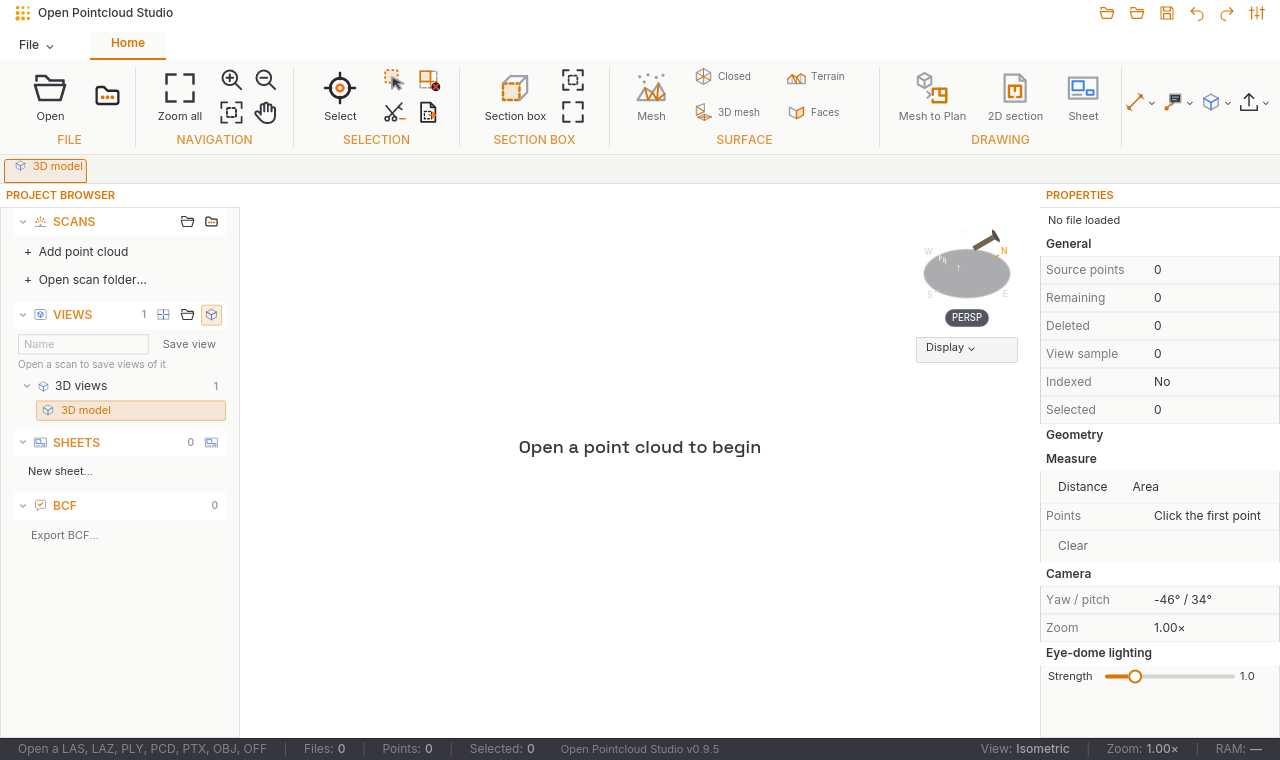
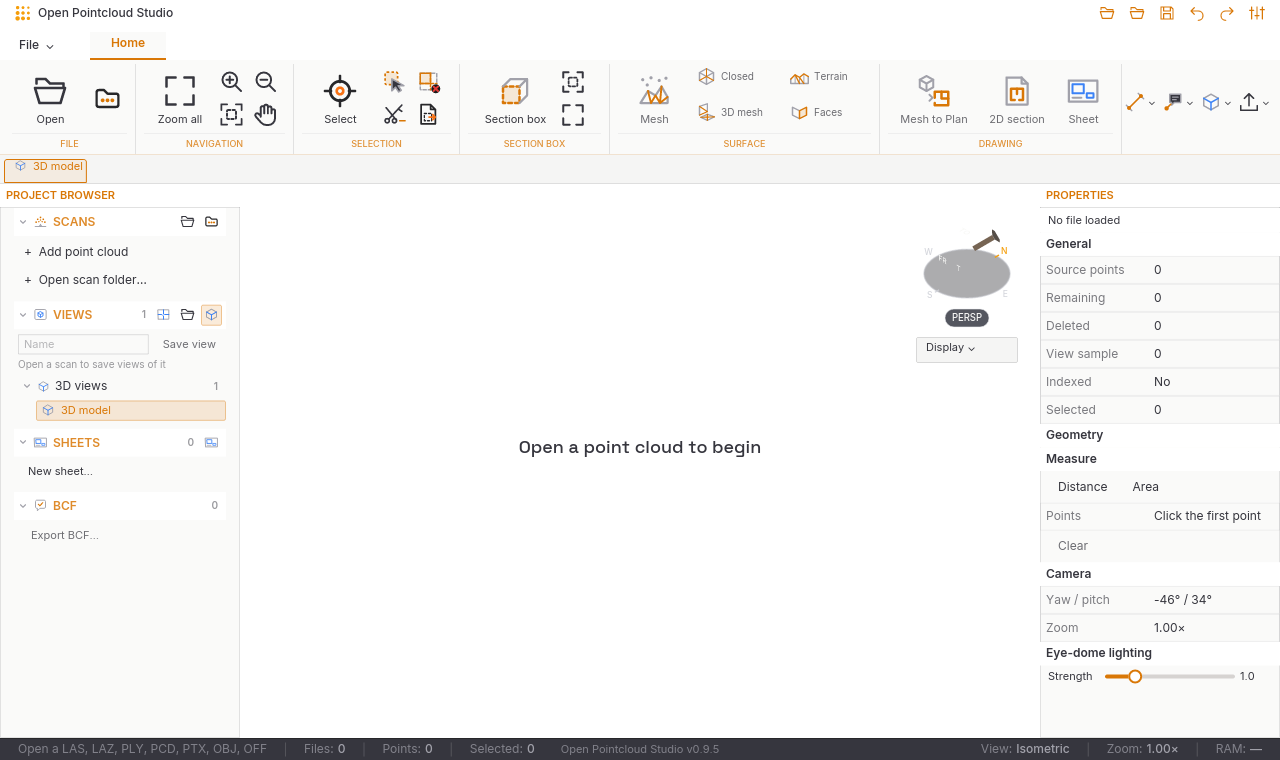
Use shared Rust ribbon group geometry in Pointcloud

diff --git a/native/ui/src/shell.rs b/native/ui/src/shell.rs
@@ -48,28 +48,36 @@ pub fn shell<'a, M: Clone + 'a>(state: &'a ShellState, slots: Slots<'a,M>) -> El
         tabs = tabs.push(button(text(tab.label.clone()).font(fonts::MEDIUM).size(13)).padding([4,16]).on_press(Message::Ui(UiEvent::Tab(tab.id.clone()))).style(move |_,s| widgets::ribbon_tab_style(theme,selected,s)));
     }
     let tabs = container(horizontal(tabs)).height(metrics::TABS).width(Fill);
-    let mut groups = Row::new().spacing(8);
+    let mut groups = Row::new().spacing(0);
     if let Some(active) = active {
         for group in &active.groups {
-            let mut commands = Row::new().spacing(4);
+            let mut commands = Row::new().spacing(1);
+            let mut tools_width = 0.0_f32;
             for command in &group.commands {
                 let selected = command.selected;
                 let color = if !command.enabled {t.text_faint} else if selected {t.accent} else {t.text};
                 let label = command.label.clone();
+                let control_width = (label.chars().count() as f32 * 7.0 + 20.0).clamp(66.0, 160.0);
+                tools_width += control_width;
                 let hint = format!("{}{}", label, command.shortcut.as_ref().map(|s|format!(" ({s})")).unwrap_or_default());
                 let control = button(column![command.icon.view(24,color),text(label).font(fonts::BODY).size(12)].spacing(6).align_x(iced::Alignment::Center))
-                    .padding([3,10]).height(52).on_press_maybe(command.enabled.then(|| Message::Command(command.message.clone())))
+                    .padding([3,10]).width(control_width).height(52).on_press_maybe(command.enabled.then(|| Message::Command(command.message.clone())))
                     .style(move |_,s| widgets::ribbon_button_style(theme,selected,s));
                 commands=commands.push(tooltip(control,text(hint).size(12),tooltip::Position::Bottom));
             }
-            groups=groups.push(container(column![commands,text(group.label.clone()).font(fonts::MEDIUM).size(11).color(t.ribbon_group_label)].spacing(4).align_x(iced::Alignment::Center)).padding([2,8]).style(move |_| container::Style { border:iced::Border {color:t.ribbon_group_separator,width:1.0,radius:0.0.into()},..Default::default() }));
+            tools_width += group.commands.len().saturating_sub(1) as f32;
+            let caption_width = (group.label.chars().count() as f32 * 6.0 + 8.0).max(50.0);
+            let group_width = tools_width.max(caption_width) + 17.0;
+            groups=groups.push(widgets::ribbon_group(theme, group.label.clone(), commands.into(), group_width));
         }
     }
     let ribbon = container(
         scrollable(groups)
-            .direction(scrollable::Direction::Horizontal(scrollable::Scrollbar::new()))
+            .direction(scrollable::Direction::Horizontal(
+                scrollable::Scrollbar::new().width(3).scroller_width(3).margin(0),
+            ))
             .height(Fill),
-    ).height(metrics::RIBBON).padding([4,8]);
+    ).height(metrics::RIBBON).padding(Padding { top: 0.0, right: 8.0, bottom: 0.0, left: 2.0 });
     let mut documents = Row::new().spacing(1).align_y(iced::Alignment::End);
     for doc in slots.documents {
         let selected=slots.active_document.as_ref() == Some(&doc.id);

diff --git a/native/ui/src/widgets.rs b/native/ui/src/widgets.rs
@@ -10,7 +10,7 @@ use iced::{
         button, checkbox, column, container, pick_list, progress_bar, row, scrollable, slider,
         text, text_input, tooltip,
     },
-    Background, Border, Element, Fill,
+    Background, Border, Element, Fill, Length, Padding,
 };
 
 pub fn slider_style(theme: Theme, status: slider::Status) -> slider::Style {
@@ -411,6 +411,53 @@ pub fn ribbon_tab_style(theme: Theme, active: bool, status: button::Status) -> b
         text_color: if active || hovered { t.accent } else { t.text },
         ..Default::default()
     }
+}
+
+/// Tauri Style Book ribbon group: 94 px including the 4 px top inset,
+/// 8 px sides, a ruled caption and a right separator. `width` is the
+/// measured total group width, including both insets and the separator.
+pub fn ribbon_group<'a, M: 'a>(
+    theme: Theme,
+    label: impl Into<String>,
+    tools: Element<'a, M>,
+    width: f32,
+) -> Element<'a, M> {
+    let t = theme.tokens();
+    let width = width.max(50.0);
+    let body = container(tools)
+        .width(Fill)
+        .height(69)
+        .align_x(iced::Alignment::Center)
+        .align_y(iced::Alignment::Center);
+    let rule = container(iced::widget::Space::new(Fill, 1))
+        .width(Fill)
+        .style(move |_| container::Style::default().background(t.border_subtle));
+    let caption = container(
+        text(label.into().to_uppercase())
+            .font(fonts::MEDIUM)
+            .size(9)
+            .color(t.ribbon_group_label),
+    )
+    .width(Fill)
+    .height(20)
+    .center_x(Fill)
+    .align_y(iced::Alignment::Center);
+    let content = container(column![body, rule, caption])
+        .width(Length::Fixed(width - 1.0))
+        .height(metrics::RIBBON)
+        .padding(Padding {
+            top: 4.0,
+            right: 8.0,
+            bottom: 0.0,
+            left: 8.0,
+        });
+    let separator = container(iced::widget::Space::new(1, 90))
+        .style(move |_| container::Style::default().background(t.ribbon_group_separator));
+    row![content, separator]
+        .align_y(iced::Alignment::End)
+        .width(Length::Fixed(width))
+        .height(metrics::RIBBON)
+        .into()
 }
 
 /// A 24 px document tab from the pinned Tauri Style Book. The caller owns

diff --git a/native/desktop/src/opencad_ribbon.rs b/native/desktop/src/opencad_ribbon.rs
@@ -3,7 +3,7 @@
 // Copyright OpenCADStudio contributors. Licensed under GPL-3.0.
 // Changes: adapted the ribbon primitives to iced 0.13 and point-cloud commands.
 
-use iced::widget::{button, column, container, row, text};
+use iced::widget::{button, container};
 use iced::{Background, Element, Fill, Length, Theme};
 
 use crate::{ui_style, ui_theme, Message};
@@ -35,39 +35,12 @@ pub fn quick_access_btn<'a>(
 /// The wider, single-row groups of the approved desktop reference. The
 /// adaptive ribbon still measures and collapses each complete group.
 pub fn render_reference_group<'a>(
+    theme: openaec_ui::Theme,
     title: &'static str,
     width: f32,
     tools: Element<'a, Message>,
 ) -> Element<'a, Message> {
-    let caption = text(crate::i18n::tr(title))
-        .size(12)
-        .font(crate::fonts::MEDIUM)
-        .style(|theme| text::Style {
-            color: Some(ui_theme::colors(theme).ribbon_group_label),
-        });
-    let content = column![
-        container(tools)
-            .width(Fill)
-            .height(64)
-            .center_x(Fill)
-            .align_y(iced::Alignment::Center),
-        container(caption).width(Fill).center_x(Fill),
-    ]
-    .spacing(4)
-    .padding([4, 0])
-    .width(Length::Fixed(width - 1.0))
-    .height(TOOL_BAR_H);
-    row![
-        content,
-        container(text(""))
-            .width(1)
-            .height(80)
-            .style(|theme| container::Style::default()
-                .background(ui_theme::colors(theme).ribbon_group_separator)),
-    ]
-    .align_y(iced::Alignment::Center)
-    .width(Length::Fixed(width))
-    .into()
+    openaec_ui::widgets::ribbon_group(theme, crate::i18n::tr(title), tools, width)
 }
 
 fn title_action_style(theme: &Theme, status: button::Status) -> button::Style {

diff --git a/native/desktop/src/shell_tests.rs b/native/desktop/src/shell_tests.rs
@@ -126,6 +126,22 @@ fn document_band_matches_style_book_edges() {
 }
 
 #[test]
+fn ribbon_group_rules_follow_style_book_geometry() {
+    // Ribbon.css at dfdcd41: a 4 px top inset, full-height right rule,
+    // and a caption rule above the 9 px group label.
+    let mut studio = Studio::default();
+    for theme in [UiTheme::Light, UiTheme::Forge] {
+        studio.ui_theme = theme;
+        let picture = crate::test_render::render_window(&studio, iced::Size::new(1280.0, 760.0));
+        let bg = picture.rgb(135, 60);
+        assert_eq!(picture.rgb(135, 63), bg, "{} top inset", theme.key());
+        assert_ne!(picture.rgb(135, 64), bg, "{} separator start", theme.key());
+        assert_eq!(picture.rgb(135, 64), picture.rgb(135, 153), "{} separator height", theme.key());
+        assert_ne!(picture.rgb(20, 133), picture.rgb(20, 132), "{} caption rule", theme.key());
+    }
+}
+
+#[test]
 #[ignore = "regenerate native review images on demand"]
 fn export_harmonized_shell_previews() {
     let folder = std::path::Path::new(env!("CARGO_MANIFEST_DIR")).join("../design");

diff --git a/native/desktop/src/main.rs b/native/desktop/src/main.rs
@@ -10361,7 +10361,7 @@ impl Studio {
                 id,
                 title,
                 icon_svg(icon, 22.0),
-                opencad_ribbon::render_reference_group(title, width, tools),
+                opencad_ribbon::render_reference_group(self.ui_theme.shared(), title, width, tools),
                 open == Some(id),
             )
         };

diff --git a/native/README.md b/native/README.md
@@ -62,7 +62,7 @@ The design follows [OpenCADStudio](https://github.com/HakanSeven12/OpenCADStudio
 
 Each file states its source and what was changed. OpenCADStudio is GPL-3.0, so the desktop crate is GPL-3.0-only; the licence text is [`desktop/LICENSE-GPL-3.0`](desktop/LICENSE-GPL-3.0). The core stays LGPL-3.0-or-later.
 
-Colours, group captions, active and hover states and the Settings dialog follow the [OpenAEC style book](https://github.com/OpenAEC-Foundation/OpenAEC-style-book). The five themes Light, Forge (dark), OpenAEC (dark), Blueprint and High contrast, with Light as the default, are the five columns of `themes.css` of its desktop template (commit `dfdcd41`): `ui_theme.rs` holds every variable of that file as a token of the same name, unchanged, with the semantic colours of the brand beside them and, under `dom`, the colours of the application itself (the scene, the paper of a drawing and of a sheet, and what is drawn on them). The fonts are those of the style book, static files under the SIL Open Font License: Inter in the weights 400, 500 and 600 for the interface and Space Grotesk Medium for headings, with their roles in `fonts.rs`, which every text drawn on a canvas names as well (a test holds it), the texts of drawings and sheets keeping a sans-serif of the system; see [`assets/fonts/README.md`](assets/fonts/README.md). `ui_style.rs` holds the shared styles of the shell: the primary and secondary buttons, the buttons of the ribbon and the small actions of the panels, links, text fields, choice lists with their menu, checkboxes, sliders, progress bars, scroll bars and tooltips, made through its own constructors (a test holds that the window makes none of these widgets itself), and the arrow that stays the pointer over buttons; the canvases never ask for the hand either (a test holds it), but light up what a click acts on or show the pointer for dragging over what is dragged. `status_bar.rs` supplies Pointcloud-specific status cells and cancel actions to the portable `openaec-ui::frame::status_bar`; the crate now owns the 22 px band, top rule, background and padding in every theme. The document strip is likewise framed by `openaec-ui::frame::document_bar` with the Style Book 30 px band and source borders. Its 24 px tabs and close controls use the shared `widgets::document_tab_style` and `widgets::document_close_style`; Pointcloud keeps its tab identities, shortening, close behavior and scroll position. Ten reviewed general tool icons now come from the shared Rust set; Zoom in, Zoom out, Pan and Fit selection were checked at 16, 24 and 32 px in Light and Forge before replacing their local SVGs.
+Colours, group captions, active and hover states and the Settings dialog follow the [OpenAEC style book](https://github.com/OpenAEC-Foundation/OpenAEC-style-book). The five themes Light, Forge (dark), OpenAEC (dark), Blueprint and High contrast, with Light as the default, are the five columns of `themes.css` of its desktop template (commit `dfdcd41`): `ui_theme.rs` holds every variable of that file as a token of the same name, unchanged, with the semantic colours of the brand beside them and, under `dom`, the colours of the application itself (the scene, the paper of a drawing and of a sheet, and what is drawn on them). The fonts are those of the style book, static files under the SIL Open Font License: Inter in the weights 400, 500 and 600 for the interface and Space Grotesk Medium for headings, with their roles in `fonts.rs`, which every text drawn on a canvas names as well (a test holds it), the texts of drawings and sheets keeping a sans-serif of the system; see [`assets/fonts/README.md`](assets/fonts/README.md). `ui_style.rs` holds the shared styles of the shell: the primary and secondary buttons, the buttons of the ribbon and the small actions of the panels, links, text fields, choice lists with their menu, checkboxes, sliders, progress bars, scroll bars and tooltips, made through its own constructors (a test holds that the window makes none of these widgets itself), and the arrow that stays the pointer over buttons; the canvases never ask for the hand either (a test holds it), but light up what a click acts on or show the pointer for dragging over what is dragged. `status_bar.rs` supplies Pointcloud-specific status cells and cancel actions to the portable `openaec-ui::frame::status_bar`; the crate now owns the 22 px band, top rule, background and padding in every theme. The document strip is likewise framed by `openaec-ui::frame::document_bar` with the Style Book 30 px band and source borders. Its 24 px tabs and close controls use the shared `widgets::document_tab_style` and `widgets::document_close_style`; Pointcloud keeps its tab identities, shortening, close behavior and scroll position. Ten reviewed general tool icons now come from the shared Rust set; Zoom in, Zoom out, Pan and Fit selection were checked at 16, 24 and 32 px in Light and Forge before replacing their local SVGs. The ribbon groups now use `openaec-ui::widgets::ribbon_group` for their 94 px frame, inset, label rule and right separator; the adaptive ribbon still measures and collapses Pointcloud’s live command groups.
 
 ## User interface
 
